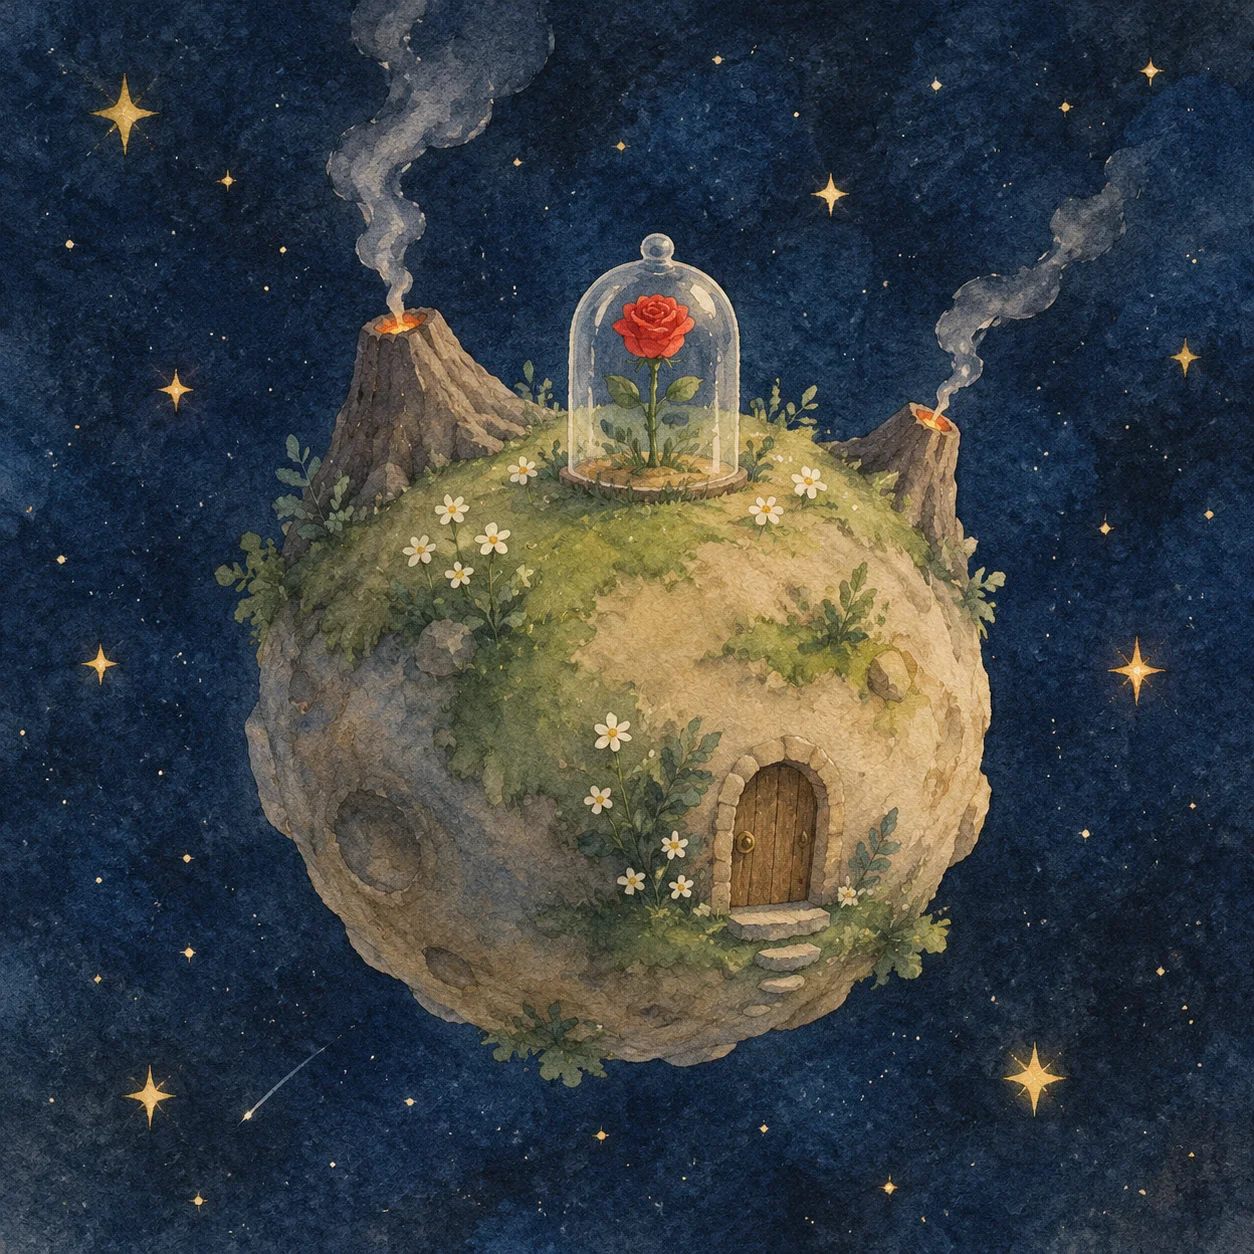
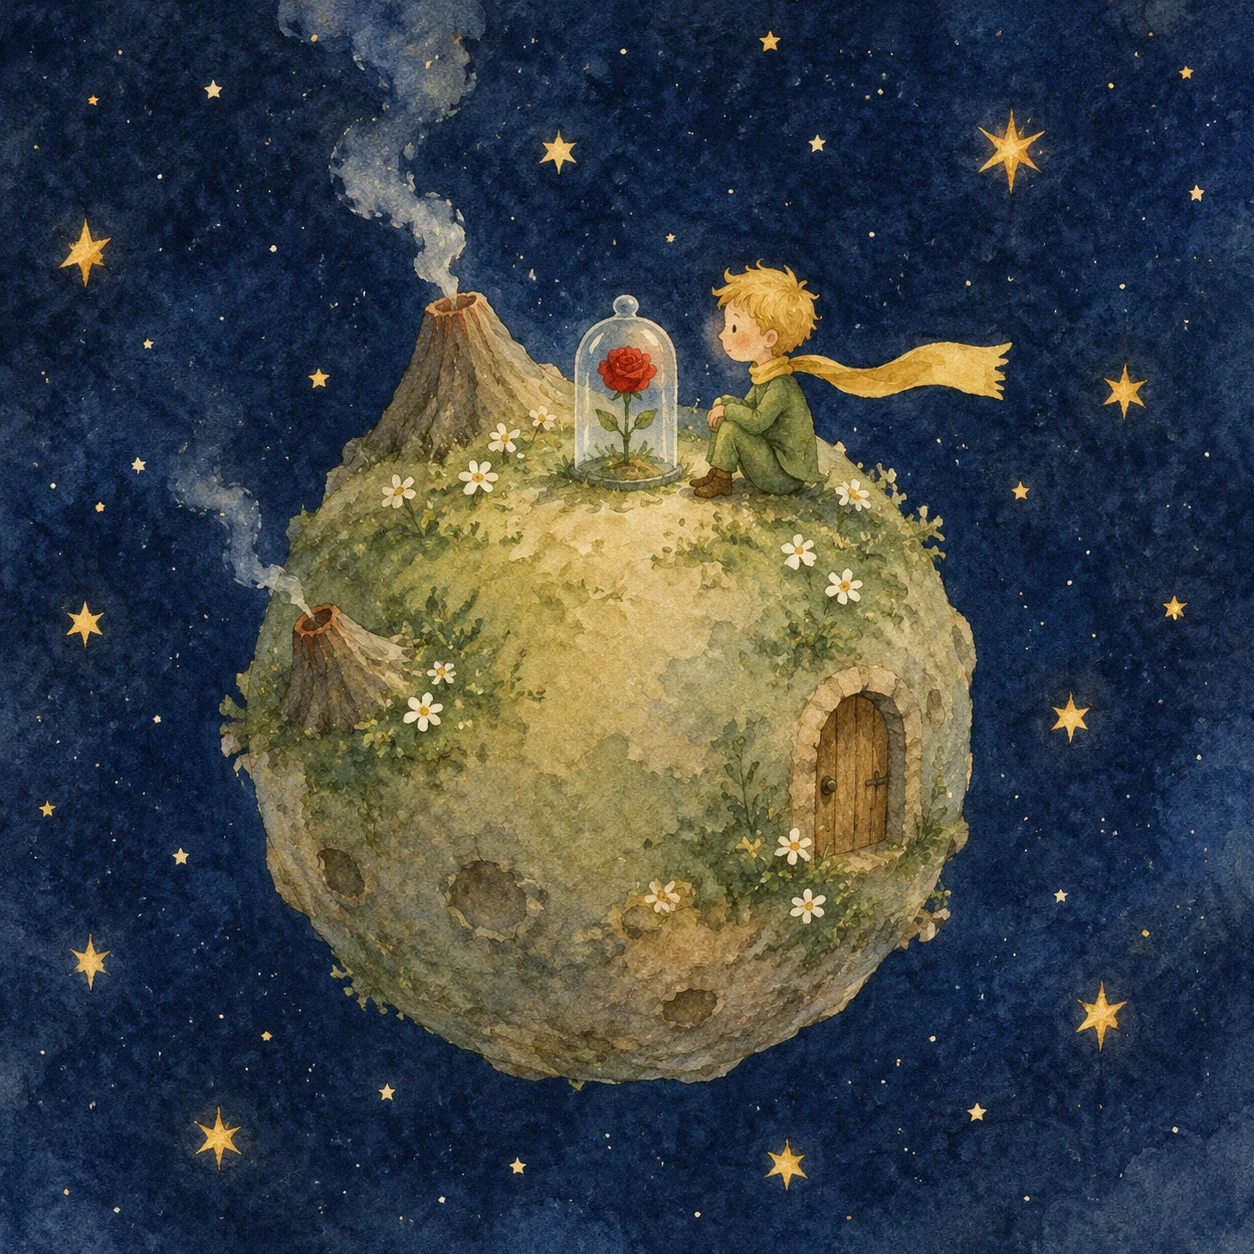
Redraw rose & well SVG art; fix star-click closure bug; replace planet & baobab illustrations with true Little Prince likeness

diff --git a/index.html b/index.html
@@ -86,7 +86,7 @@ main{position:relative;z-index:1}
 /* rose */
 .rose-wrap{width:150px;margin:0 auto 8px}
 .rose-wrap svg{width:100%;height:auto;overflow:visible}
-#petalsGroup{transform:scale(.34);transform-origin:100px 118px;transition:transform 1.5s cubic-bezier(.2,.85,.3,1)}
+#petalsGroup{transform:scale(.34);transform-origin:100px 108px;transition:transform 1.5s cubic-bezier(.2,.85,.3,1)}
 .rose-wrap.bloomed #petalsGroup{transform:scale(1)}
 .rose-wrap.bloomed{filter:drop-shadow(0 0 16px #c8434e55)}
 /* baobab */
@@ -114,7 +114,7 @@ main{position:relative;z-index:1}
 .well-wrap{width:190px;margin:0 auto 6px}
 .well-wrap svg{width:100%;height:auto;overflow:visible}
 #bucketG{transition:transform 1.4s cubic-bezier(.3,.8,.3,1)}
-.well-wrap.drawn #bucketG{transform:translateY(-64px)}
+.well-wrap.drawn #bucketG{transform:translateY(-52px)}
 .well-wrap.drawn #crank{transform:rotate(720deg)}
 #crank{transform-origin:100px 64px;transition:transform 1.4s cubic-bezier(.3,.8,.3,1)}
 .water{opacity:0;transition:opacity .8s .5s}
@@ -175,17 +175,35 @@ footer{max-width:1040px;margin:0 auto;padding:26px 26px 60px;color:var(--dim);fo
     <p class="it-title">INTERLUDE · 玫瑰与玻璃罩</p>
     <div class="rose-wrap" id="roseWrap">
       <svg viewBox="0 0 200 210" fill="none" aria-hidden="true">
-        <path d="M100 196 C 99 168 100 156 100 132" stroke="#5d7a5d" stroke-width="4" stroke-linecap="round"/>
-        <path d="M100 150 c-20 0 -30 12 -32 26 18 2 30 -8 32 -26z" fill="#5d7a5d"/>
-        <path d="M100 138 c20 -2 31 8 33 22 -17 3 -30 -5 -33 -22z" fill="#4c684c"/>
+        <path d="M100 196 C 99 175 100 168 100 148" stroke="#5d7a5d" stroke-width="4" stroke-linecap="round"/>
+        <path d="M100 158 c-20 0 -30 12 -32 26 18 2 30 -8 32 -26z" fill="#5d7a5d"/>
+        <path d="M100 146 c20 -2 31 8 33 22 -17 3 -30 -5 -33 -22z" fill="#4c684c"/>
         <g id="petalsGroup">
-          <path d="M100 112 c-26 0 -40 -15 -40 -32 0 -19 18 -32 40 -32 22 0 40 13 40 32 0 17 -14 32 -40 32z" fill="#b93b48"/>
-          <path d="M100 103 c-16 0 -25 -10 -25 -22 0 -13 11 -22 25 -22 14 0 25 9 25 22 0 12 -9 22 -25 22z" fill="#cf5560"/>
-          <path d="M100 95 c-9 0 -15 -6 -15 -13 0 -8 7 -13 15 -13 8 0 15 5 15 13 0 7 -6 13 -15 13z" fill="#e08a8f"/>
-          <path d="M92 78 c3 -4 13 -4 16 0" stroke="#f3ddb0" stroke-width="2" stroke-linecap="round" opacity=".7"/>
+          <g fill="#b23a47">
+            <ellipse cx="100" cy="74" rx="14" ry="26"/>
+            <ellipse cx="100" cy="74" rx="14" ry="26" transform="rotate(45 100 108)"/>
+            <ellipse cx="100" cy="74" rx="14" ry="26" transform="rotate(90 100 108)"/>
+            <ellipse cx="100" cy="74" rx="14" ry="26" transform="rotate(135 100 108)"/>
+            <ellipse cx="100" cy="74" rx="14" ry="26" transform="rotate(180 100 108)"/>
+            <ellipse cx="100" cy="74" rx="14" ry="26" transform="rotate(225 100 108)"/>
+            <ellipse cx="100" cy="74" rx="14" ry="26" transform="rotate(270 100 108)"/>
+            <ellipse cx="100" cy="74" rx="14" ry="26" transform="rotate(315 100 108)"/>
+          </g>
+          <g fill="#cf5560">
+            <ellipse cx="100" cy="80" rx="10.5" ry="19" transform="rotate(22 100 108)"/>
+            <ellipse cx="100" cy="80" rx="10.5" ry="19" transform="rotate(67 100 108)"/>
+            <ellipse cx="100" cy="80" rx="10.5" ry="19" transform="rotate(112 100 108)"/>
+            <ellipse cx="100" cy="80" rx="10.5" ry="19" transform="rotate(157 100 108)"/>
+            <ellipse cx="100" cy="80" rx="10.5" ry="19" transform="rotate(202 100 108)"/>
+            <ellipse cx="100" cy="80" rx="10.5" ry="19" transform="rotate(247 100 108)"/>
+            <ellipse cx="100" cy="80" rx="10.5" ry="19" transform="rotate(292 100 108)"/>
+            <ellipse cx="100" cy="80" rx="10.5" ry="19" transform="rotate(337 100 108)"/>
+          </g>
+          <circle cx="100" cy="108" r="10" fill="#e08a8f"/>
+          <path d="M96 108a4.5 4.5 0 0 1 8 0" stroke="#f3ddb0" stroke-width="1.8" fill="none" stroke-linecap="round"/>
         </g>
-        <path d="M52 118 a48 48 0 0 1 96 0" stroke="#aebfe066" stroke-width="2.5" stroke-linecap="round"/>
-        <path d="M52 118 c0 6 21 10 48 10 s48 -4 48 -10" stroke="#aebfe033" stroke-width="2"/>
+        <path d="M32 116 a68 68 0 0 1 136 0" stroke="#aebfe055" stroke-width="2.5" stroke-linecap="round"/>
+        <path d="M32 116 c0 7.6 30.4 13 68 13 s68 -5.4 68 -13" stroke="#aebfe02e" stroke-width="2"/>
         <circle cx="46" cy="36" r="1.6" fill="#e6b95c88"/>
         <circle cx="166" cy="24" r="1.2" fill="#e6b95c66"/>
       </svg>
@@ -301,22 +319,29 @@ footer{max-width:1040px;margin:0 auto;padding:26px 26px 60px;color:var(--dim);fo
     <div class="well-wrap" id="wellWrap">
       <svg viewBox="0 0 200 168" fill="none" aria-hidden="true">
         <path d="M12 152h176" stroke="#243453" stroke-width="2" stroke-linecap="round"/>
-        <rect x="52" y="58" width="6" height="94" rx="2" fill="#33456b"/>
-        <rect x="142" y="58" width="6" height="94" rx="2" fill="#33456b"/>
-        <rect x="44" y="50" width="112" height="9" rx="4" fill="#3d5379"/>
-        <circle cx="100" cy="64" r="10" stroke="#e6b95c" stroke-width="3"/>
-        <g id="crank"><path d="M100 64l17-7" stroke="#e6b95c" stroke-width="3" stroke-linecap="round"/><circle cx="119" cy="56" r="3.4" fill="#e6b95c"/></g>
-        <clipPath id="wellClip"><rect x="42" y="70" width="116" height="88"/></clipPath>
+        <path d="M64 122v-64M136 122v-64" stroke="#33456b" stroke-width="5" stroke-linecap="round"/>
+        <rect x="54" y="50" width="92" height="9" rx="4.5" fill="#3d5379"/>
+        <path d="M100 50v-8M92 42h16" stroke="#3d5379" stroke-width="3.4" stroke-linecap="round"/>
+        <circle cx="100" cy="64" r="9" stroke="#e6b95c" stroke-width="3"/>
+        <g id="crank"><path d="M100 64l15-6" stroke="#e6b95c" stroke-width="3" stroke-linecap="round"/><circle cx="117" cy="57" r="3.2" fill="#e6b95c"/></g>
+        <path d="M62 122 C62 142 76 152 100 152 C124 152 138 142 138 122" fill="#22314f" stroke="#3d5379" stroke-width="2.4"/>
+        <ellipse cx="100" cy="122" rx="38" ry="10.5" fill="#16233f" stroke="#3d5379" stroke-width="2.4"/>
+        <ellipse class="water" cx="100" cy="123" rx="30" ry="7" fill="#2e4a78"/>
+        <ellipse class="water" cx="100" cy="122.5" rx="19" ry="4.2" fill="#5d80b3" opacity="0"/>
+        <circle class="water" cx="90" cy="121" r="1.6" fill="#cfe0f7" opacity="0"/>
+        <circle class="water" cx="108" cy="124" r="1.3" fill="#cfe0f7" opacity="0"/>
+        <clipPath id="wellClip"><rect x="58" y="60" width="84" height="80"/></clipPath>
         <g clip-path="url(#wellClip)">
           <g id="bucketG">
-            <path d="M100 70v62" stroke="#8d9bbd" stroke-width="2"/>
-            <path d="M88 132h24l-3.2 16h-17.6z" fill="#33456b" stroke="#5d7a5d" stroke-width="2" stroke-linejoin="round"/>
-            <path d="M91 132c0-5 18-5 18 0" stroke="#5d7a5d" stroke-width="2"/>
+            <path d="M100 64v56" stroke="#8d9bbd" stroke-width="2"/>
+            <path d="M88 120h24l-3.2 15h-17.6z" fill="#33456b" stroke="#5d7a5d" stroke-width="2" stroke-linejoin="round"/>
+            <path d="M91 120c0-4.6 18-4.6 18 0" stroke="#5d7a5d" stroke-width="2"/>
           </g>
         </g>
-        <ellipse class="water" cx="100" cy="154" rx="17" ry="4" fill="#7fa3d4" opacity="0"/>
-        <circle class="water" cx="93" cy="148" r="1.5" fill="#aec6ea" opacity="0"/>
-        <circle class="water" cx="108" cy="145" r="1.2" fill="#aec6ea" opacity="0"/>
+        <circle cx="72" cy="132" r="2" fill="#2c3f6b"/>
+        <circle cx="86" cy="141" r="1.6" fill="#2c3f6b"/>
+        <circle cx="118" cy="139" r="2" fill="#2c3f6b"/>
+        <circle cx="130" cy="130" r="1.6" fill="#2c3f6b"/>
       </svg>
     </div>
     <button class="it-btn" id="wellBtn" type="button">转动辘轳</button>
@@ -650,31 +675,28 @@ footer{max-width:1040px;margin:0 auto;padding:26px 26px 60px;color:var(--dim);fo
 
   /* ---------- 互动六：星星大笑 ---------- */
   var starRow = document.getElementById("starRow");
+  var lit = 0;
   for (var sti = 0; sti < 7; sti++){
     var sb = document.createElement("button");
     sb.type = "button"; sb.className = "star";
     sb.textContent = "✦";
     sb.setAttribute("aria-label", "点亮第 " + (sti + 1) + " 颗星星");
-    sb.addEventListener("click", (function(idx){
-      return function(){
-        if (sb.classList.contains("lit")) return;
-        sb.classList.add("lit");
+    (function(btn, idx){
+      btn.addEventListener("click", function(){
+        if (btn.classList.contains("lit")) return;
+        btn.classList.add("lit");
         lit++;
         document.getElementById("starCount").textContent = "已经笑出声的星星：" + lit + " / 7";
         chime(523 * Math.pow(1.108, idx), 1, 0.08);
         if (lit === 7){
           document.getElementById("starLine").classList.add("show");
           setTimeout(function(){ chime(1046, 1.6, 0.07); }, 240);
-          var f = document.getElementById("final");
-          var l = f.querySelector(".last");
-          l.classList.add("fx-in");
+          document.getElementById("final").querySelector(".last").classList.add("fx-in");
         }
-      };
-    })(sti));
+      });
+    })(sb, sti);
     starRow.appendChild(sb);
   }
-  var lit = 0;
-  document.getElementById("starLine").classList.remove("show");
 })();
 </script>
 </body>
